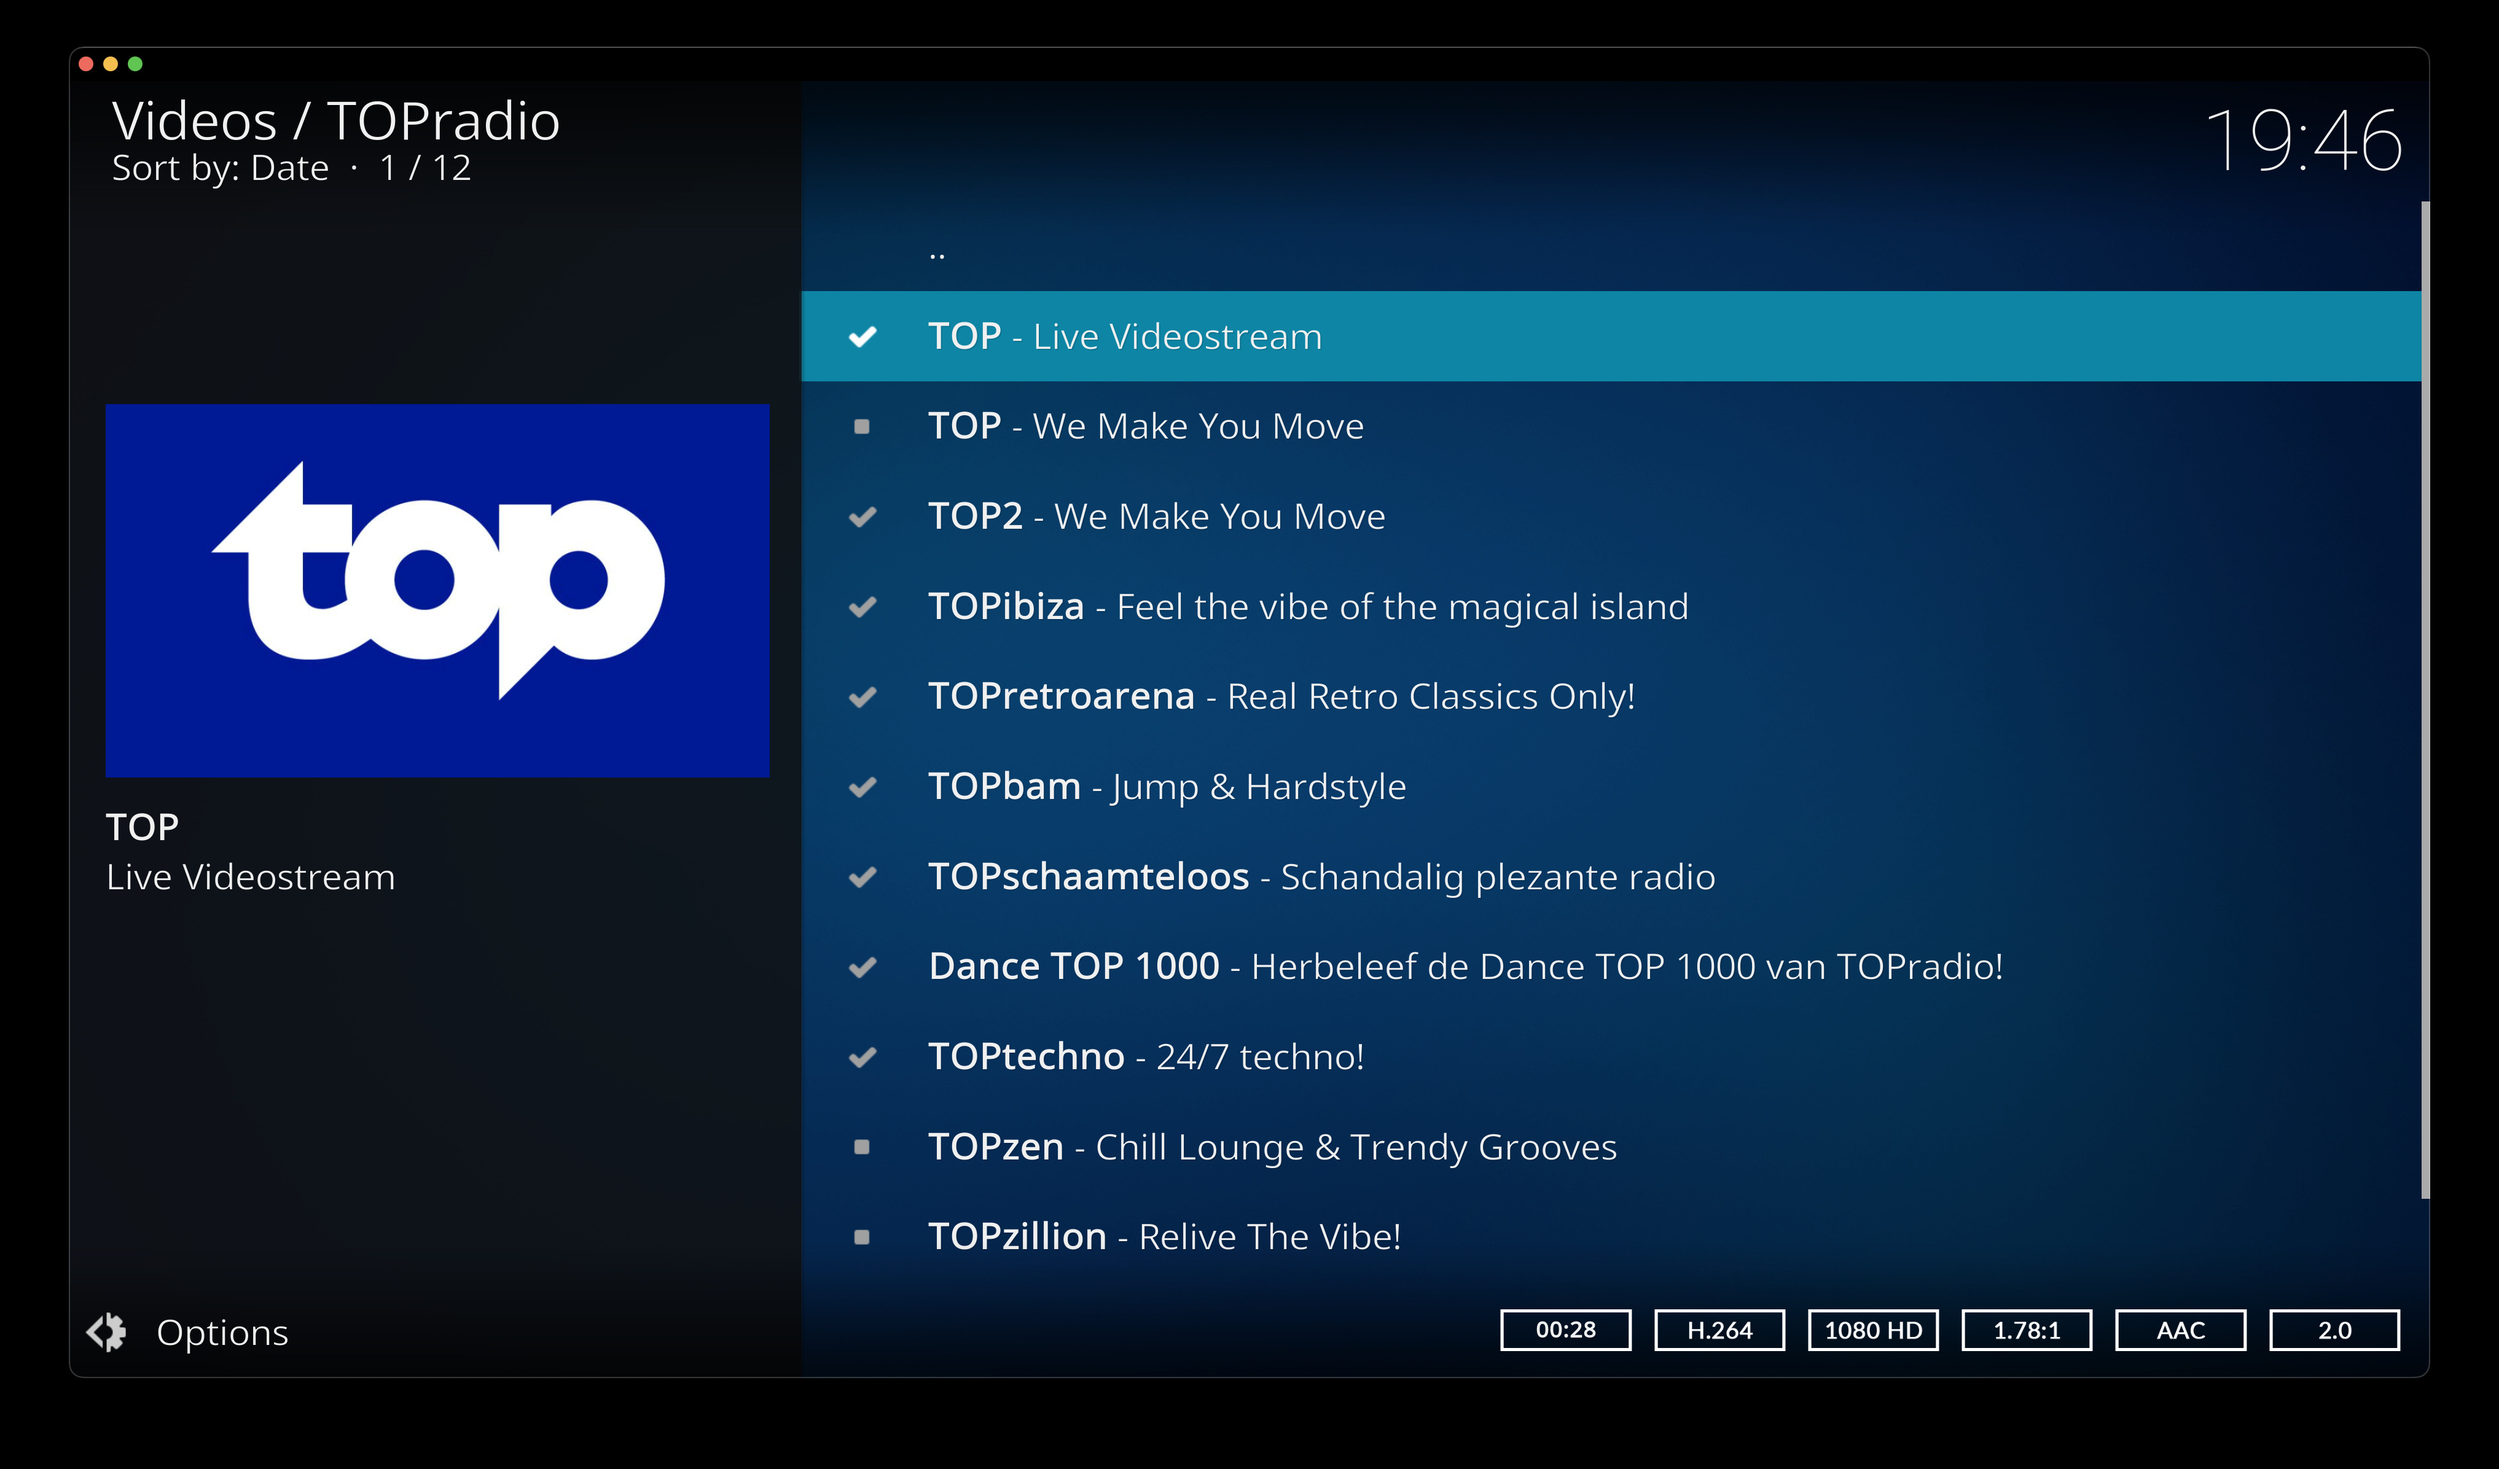
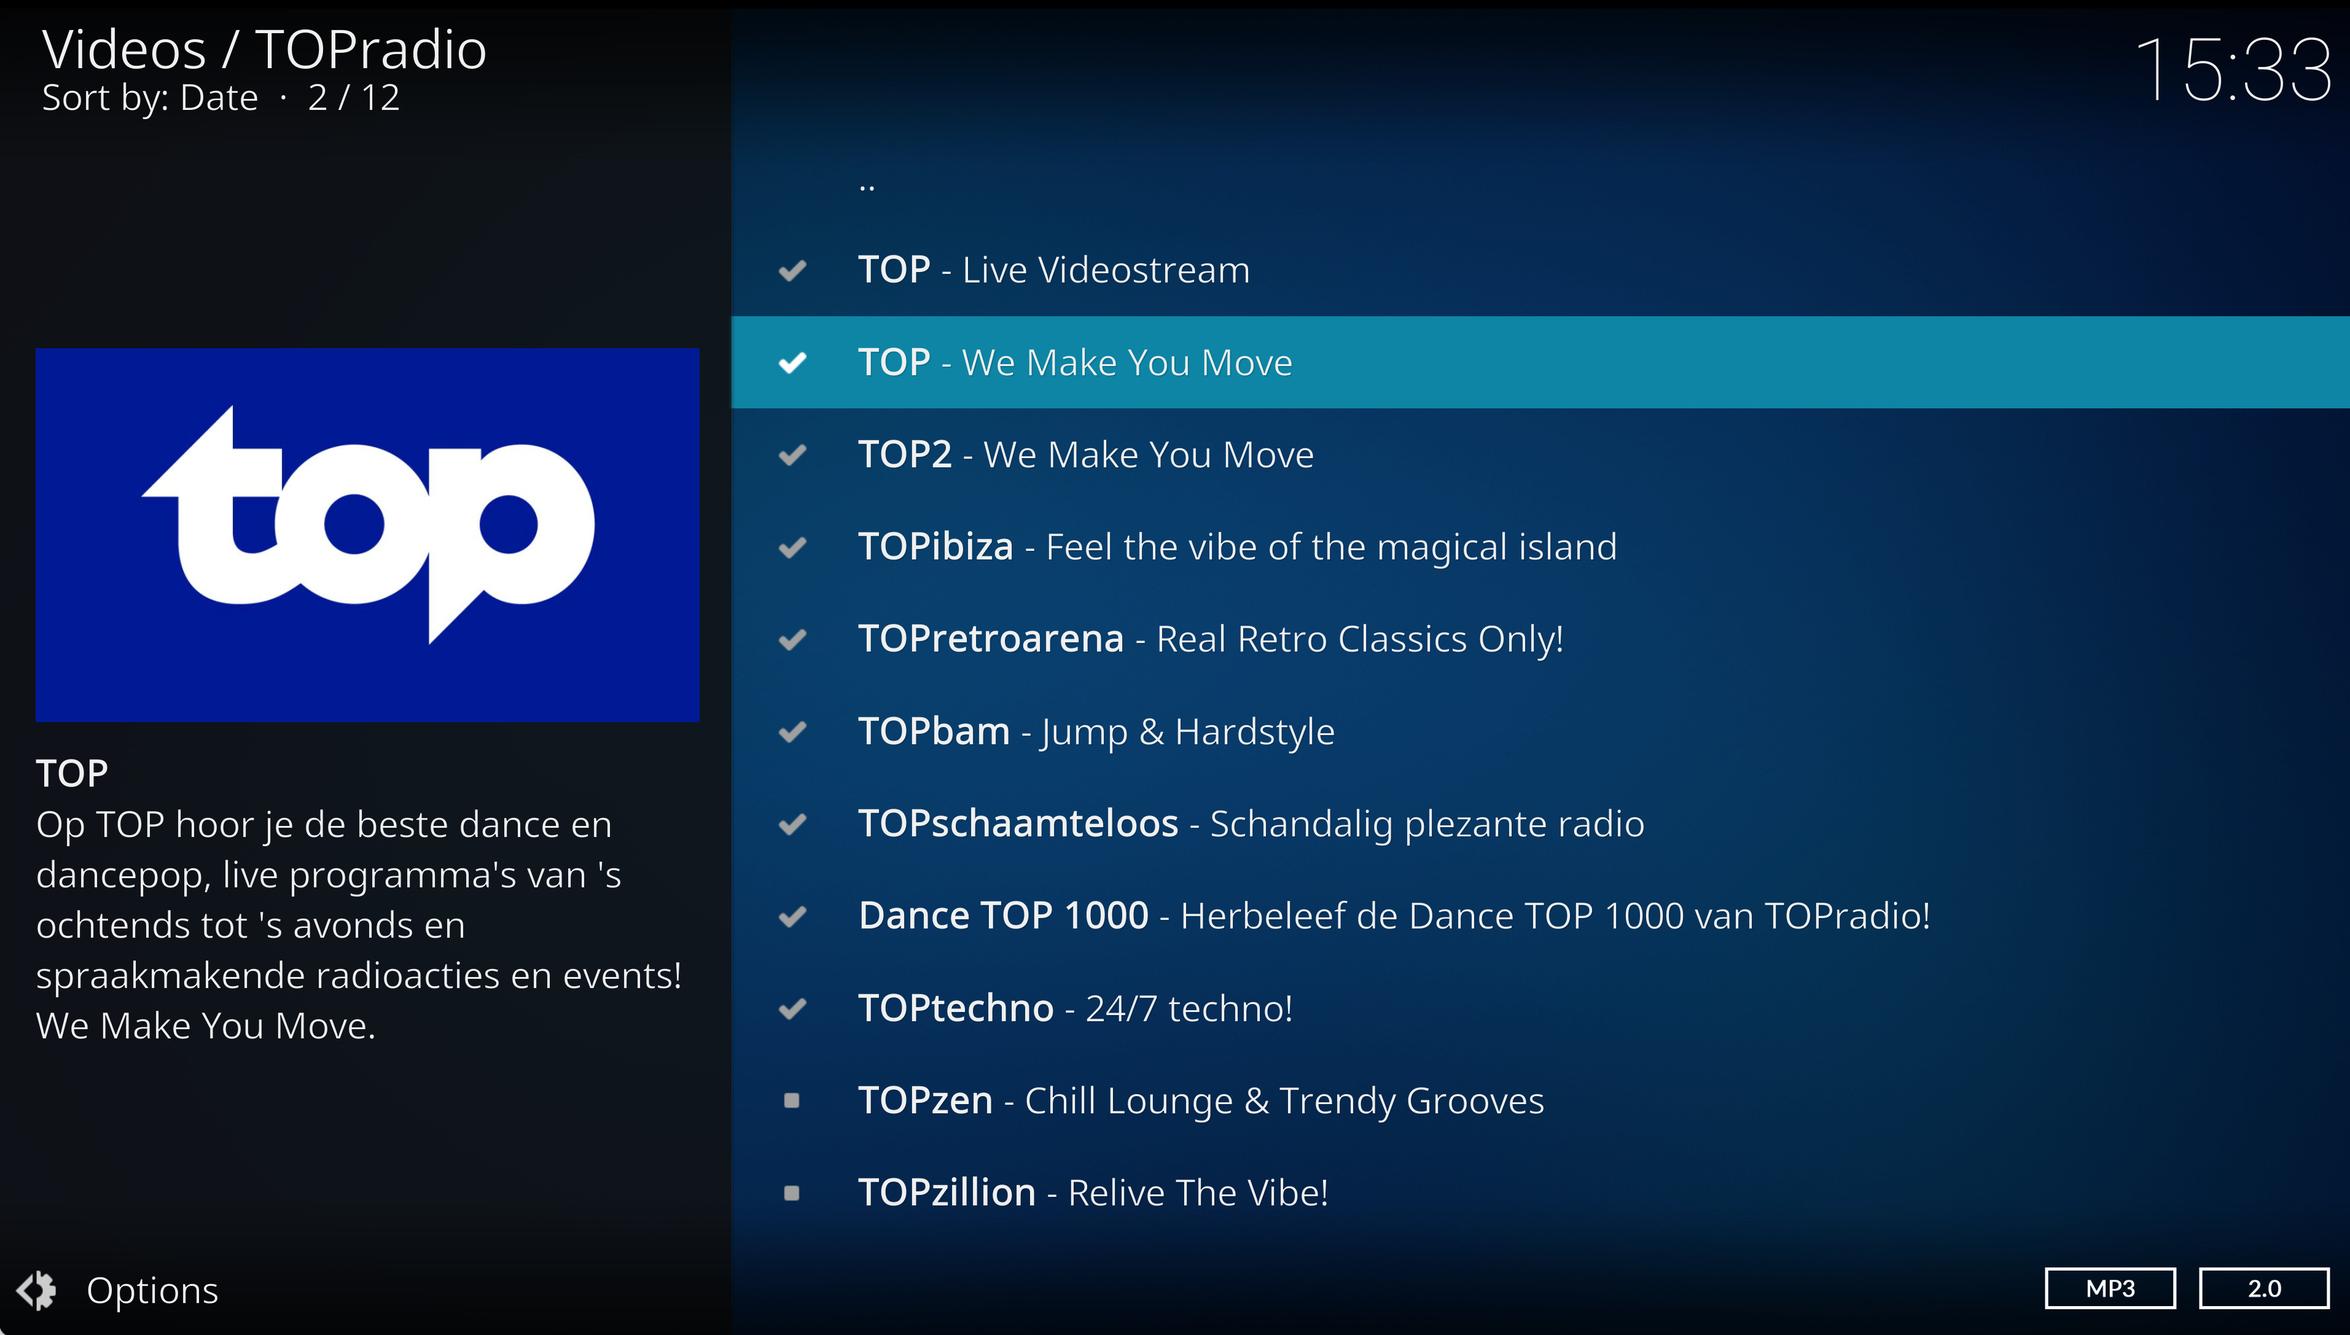
feat: use description for station plot instead of subtitle

diff --git a/resources/lib/plugin.py b/resources/lib/plugin.py
@@ -165,13 +165,13 @@ def show_root_menu():
     for station in get_station_entries():
         title = station["title"]
         subtitle = station["subtitle"]
+        description = station["description"]
 
         label = title
-        plot = title
+        plot = "[B]{0}[/B]\n{1}".format(title, description)
 
         if subtitle:
             label = "[B]{0}[/B] - {1}".format(title, subtitle)
-            plot = "[B]{0}[/B]\n{1}".format(title, subtitle)
         art = {
             "thumb": station["logo"],
             "icon": station["logo"],
